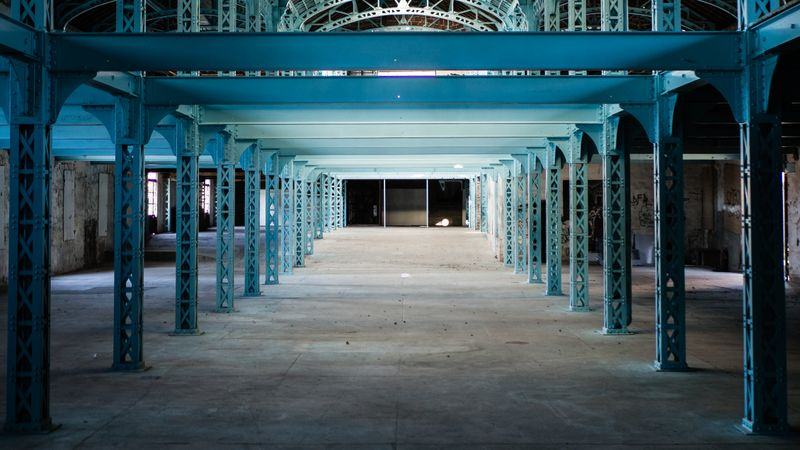
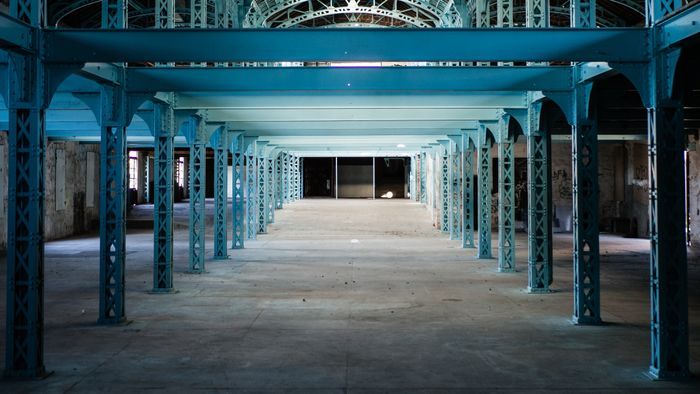
Fotos do Pexels restantes no próprio site (sem cookie de terceiros) e link do Assistente rastreável
Claude-Session: https://claude.ai/code/session_01NRJkSfCUbK5mzCxfSFgj6f

Changed region(s): [[0.42, 0.0, 0.63, 0.0609], [0.42, 0.3959, 0.45, 0.4264], [0.18, 0.3959, 0.21, 0.4264]]

diff --git a/index.html b/index.html
@@ -220,7 +220,7 @@
             <div class="linha-info"><h3>Epóxi</h3><p>Painéis elétricos, máquinas e prateleiras. Alta resistência química.</p><span class="linha-seta"><svg class="icone-svg" viewBox="0 0 24 24" aria-hidden="true" fill="none" stroke="currentColor" stroke-width="1.7" stroke-linecap="round" stroke-linejoin="round"><path d="M5 12h14M13 6l6 6-6 6"/></svg></span></div>
           </a>
           <a class="linha-card revelar" href="produtos?categoria=hibrida">
-            <img src="https://images.pexels.com/photos/11513526/pexels-photo-11513526.jpeg?auto=compress&amp;cs=tinysrgb&amp;w=700" alt="Híbrida" loading="lazy" data-foto-real data-reserva="assets/img/marca/pecas-linha.jpg">
+            <img src="assets/img/inspiracao/pexels-11513526.jpg" alt="Híbrida" loading="lazy" data-foto-real data-reserva="assets/img/marca/pecas-linha.jpg">
             <div class="linha-info"><h3>Híbrida</h3><p>Móveis de aço, armários e eletrodomésticos de uso interno.</p><span class="linha-seta"><svg class="icone-svg" viewBox="0 0 24 24" aria-hidden="true" fill="none" stroke="currentColor" stroke-width="1.7" stroke-linecap="round" stroke-linejoin="round"><path d="M5 12h14M13 6l6 6-6 6"/></svg></span></div>
           </a>
           <a class="linha-card revelar" href="produtos?categoria=texturizada">
@@ -272,7 +272,7 @@
             <div><h3>Automotivo e duas rodas</h3><p>Rodas, quadros e peças com brilho e proteção.</p></div>
           </a>
           <a class="segmento" href="produtos?categoria=especiais" draggable="false">
-            <img src="https://images.pexels.com/photos/11667731/pexels-photo-11667731.jpeg?auto=compress&amp;cs=tinysrgb&amp;w=700" alt="Estruturas metálicas" loading="lazy" draggable="false" data-foto-real data-reserva="assets/img/marca/estufa-cura.jpg">
+            <img src="assets/img/inspiracao/pexels-11667731.jpg" alt="Estruturas metálicas" loading="lazy" draggable="false" data-foto-real data-reserva="assets/img/marca/estufa-cura.jpg">
             <div><h3>Estruturas metálicas</h3><p>Sistemas anticorrosivos com primer rico em zinco.</p></div>
           </a>
           <a class="segmento" href="produtos?categoria=todas" draggable="false">
@@ -413,7 +413,7 @@
         </div>
         <div class="passos-cards">
           <article class="passo-card revelar">
-            <div class="passo-img"><img src="https://images.pexels.com/photos/29385994/pexels-photo-29385994.jpeg?auto=compress&amp;cs=tinysrgb&amp;w=700" alt="Preparação mecânica de peça metálica" loading="lazy" data-foto-real data-reserva="assets/img/marca/placas-acabamentos.jpg"></div>
+            <div class="passo-img"><img src="assets/img/inspiracao/pexels-29385994.jpg" alt="Preparação mecânica de peça metálica" loading="lazy" data-foto-real data-reserva="assets/img/marca/placas-acabamentos.jpg"></div>
             <div class="passo-txt"><span>01</span><h3>Preparação</h3><p>Jateamento, desengraxe e pré-tratamento deixam o metal limpo e pronto para a tinta aderir.</p></div>
           </article>
           <article class="passo-card revelar">
@@ -475,7 +475,7 @@
       </div>
       <div class="pilula-slider revelar" data-pilulas>
         <article class="pilula ativa">
-          <div class="pilula-foto"><img src="https://images.pexels.com/photos/227416/pexels-photo-227416.jpeg?auto=compress&amp;cs=tinysrgb&amp;w=1100" alt="Lago cercado por floresta" loading="lazy" data-foto-real data-reserva="assets/img/marca/potes-cores.jpg"></div>
+          <div class="pilula-foto"><img src="assets/img/inspiracao/pexels-227416.jpg" alt="Lago cercado por floresta" loading="lazy" data-foto-real data-reserva="assets/img/marca/potes-cores.jpg"></div>
           <div class="pilula-card"><h3>Sustentabilidade</h3><p>Tinta em pó não usa solventes e o pó que não adere à peça é recuperado. Menos emissões e menos desperdício na sua linha de pintura.</p><a href="aplicacao#vantagens" class="btn btn-contorno-escuro">Veja mais sobre o assunto</a></div>
         </article>
         <article class="pilula">
@@ -647,7 +647,7 @@
   <script src="assets/js/main.js?v=b1a36816"></script>
   <script src="assets/js/animacoes.js?v=d2c27710"></script>
   <script src="assets/js/secoes.js?v=7befe6f9"></script>
-  <script src="assets/js/assistente.js?v=7567cfc9"></script>
+  <script src="assets/js/assistente.js?v=bb8498c5"></script>
   <script src="assets/js/novidades.js?v=7d1cc1e2"></script>
   <script>
     document.addEventListener("DOMContentLoaded", function () {

diff --git a/aplicacao.html b/aplicacao.html
@@ -157,7 +157,7 @@
                 <li><strong>Enxágue e estufa de secagem</strong><span>Tira os resíduos químicos e seca a peça antes da pintura.</span></li>
               </ul>
             </div>
-            <figure class="etapa-foto"><img src="https://images.pexels.com/photos/29385994/pexels-photo-29385994.jpeg?auto=compress&amp;cs=tinysrgb&amp;w=900" alt="Preparação mecânica de peça metálica" loading="lazy" data-foto-real data-reserva="assets/img/marca/aplicacao-pistola.jpg"></figure>
+            <figure class="etapa-foto"><img src="assets/img/inspiracao/pexels-29385994.jpg" alt="Preparação mecânica de peça metálica" loading="lazy" data-foto-real data-reserva="assets/img/marca/aplicacao-pistola.jpg"></figure>
           </article>
 
           <article class="etapa revelar">
@@ -373,6 +373,6 @@
   <script src="assets/js/main.js?v=b1a36816"></script>
   <script src="assets/js/animacoes.js?v=d2c27710"></script>
   <script src="assets/js/secoes.js?v=7befe6f9"></script>
-  <script src="assets/js/assistente.js?v=7567cfc9"></script>
+  <script src="assets/js/assistente.js?v=bb8498c5"></script>
 </body>
 </html>

diff --git a/assets/js/assistente.js b/assets/js/assistente.js
@@ -162,7 +162,7 @@
           <button type="button" class="assist-voz" aria-label="Falar a mensagem" title="Falar" hidden>${ic("microfone")}</button>
           <button type="submit" aria-label="Enviar">${ic("seta")}</button>
         </form>
-        <a class="assist-whats" data-whats-assist target="_blank" rel="noopener">${CW().iconeWhats()} Falar com um vendedor no WhatsApp</a>
+        <a class="assist-whats" href="#" data-whats-assist target="_blank" rel="noopener">${CW().iconeWhats()} Falar com um vendedor no WhatsApp</a>
       </section>`);
 
     $(".assist-botao").addEventListener("click", () => alternar(!aberto));

diff --git a/cotacao.html b/cotacao.html
@@ -342,7 +342,7 @@
   <script src="assets/js/main.js?v=b1a36816"></script>
   <script src="assets/js/animacoes.js?v=d2c27710"></script>
   <script src="assets/js/secoes.js?v=7befe6f9"></script>
-  <script src="assets/js/assistente.js?v=7567cfc9"></script>
+  <script src="assets/js/assistente.js?v=bb8498c5"></script>
   <script src="assets/js/seletor.js?v=00ee7cd3"></script>
   <script src="assets/js/br.js?v=848f13ba"></script>
   <script src="assets/js/cotacao-animacao.js?v=c0f23e22"></script>

diff --git a/admin.html b/admin.html
@@ -723,7 +723,7 @@
   <script src="assets/js/main.js?v=b1a36816"></script>
   <script src="assets/js/animacoes.js?v=d2c27710"></script>
   <script src="assets/js/secoes.js?v=7befe6f9"></script>
-  <script src="assets/js/assistente.js?v=7567cfc9"></script>
+  <script src="assets/js/assistente.js?v=bb8498c5"></script>
   <script src="assets/js/br.js?v=848f13ba"></script>
   <script src="assets/js/seletor.js?v=00ee7cd3"></script>
   <script src="assets/js/admin.js?v=b308c0c9"></script>

diff --git a/produtos.html b/produtos.html
@@ -217,7 +217,7 @@
   <script src="assets/js/main.js?v=b1a36816"></script>
   <script src="assets/js/animacoes.js?v=d2c27710"></script>
   <script src="assets/js/secoes.js?v=7befe6f9"></script>
-  <script src="assets/js/assistente.js?v=7567cfc9"></script>
+  <script src="assets/js/assistente.js?v=bb8498c5"></script>
   <script>
     document.addEventListener("DOMContentLoaded", function () {
       var CW = window.ColorWeg, padrao = window.padraoClassificacao;

diff --git a/conta.html b/conta.html
@@ -441,7 +441,7 @@
   <script src="assets/js/main.js?v=b1a36816"></script>
   <script src="assets/js/animacoes.js?v=d2c27710"></script>
   <script src="assets/js/secoes.js?v=7befe6f9"></script>
-  <script src="assets/js/assistente.js?v=7567cfc9"></script>
+  <script src="assets/js/assistente.js?v=bb8498c5"></script>
   <script src="assets/js/br.js?v=848f13ba"></script>
   <script src="assets/js/conta.js?v=c339aa3d"></script>
 </body>

diff --git a/recursos.html b/recursos.html
@@ -340,7 +340,7 @@
   <script src="assets/js/main.js?v=b1a36816"></script>
   <script src="assets/js/animacoes.js?v=d2c27710"></script>
   <script src="assets/js/secoes.js?v=7befe6f9"></script>
-  <script src="assets/js/assistente.js?v=7567cfc9"></script>
+  <script src="assets/js/assistente.js?v=bb8498c5"></script>
   <script>
     document.addEventListener("DOMContentLoaded", function () {
       var CW = window.ColorWeg;

diff --git a/produto.html b/produto.html
@@ -189,7 +189,7 @@
   <script src="assets/js/main.js?v=b1a36816"></script>
   <script src="assets/js/animacoes.js?v=d2c27710"></script>
   <script src="assets/js/secoes.js?v=7befe6f9"></script>
-  <script src="assets/js/assistente.js?v=7567cfc9"></script>
+  <script src="assets/js/assistente.js?v=bb8498c5"></script>
   <script src="assets/js/produto-pagina.js?v=bdcbbcc6"></script>
 </body>
 </html>

diff --git a/galeria.html b/galeria.html
@@ -291,7 +291,7 @@
   <script src="assets/js/main.js?v=b1a36816"></script>
   <script src="assets/js/animacoes.js?v=d2c27710"></script>
   <script src="assets/js/secoes.js?v=7befe6f9"></script>
-  <script src="assets/js/assistente.js?v=7567cfc9"></script>
+  <script src="assets/js/assistente.js?v=bb8498c5"></script>
   <script src="assets/js/galeria.js?v=2e8c3dda"></script>
 </body>
 </html>

diff --git a/404.html b/404.html
@@ -190,6 +190,6 @@
   <script src="assets/js/main.js?v=b1a36816"></script>
   <script src="assets/js/animacoes.js?v=d2c27710"></script>
   <script src="assets/js/secoes.js?v=7befe6f9"></script>
-  <script src="assets/js/assistente.js?v=7567cfc9"></script>
+  <script src="assets/js/assistente.js?v=bb8498c5"></script>
 </body>
 </html>

diff --git a/privacidade.html b/privacidade.html
@@ -219,6 +219,6 @@
   <script src="assets/js/main.js?v=b1a36816"></script>
   <script src="assets/js/animacoes.js?v=d2c27710"></script>
   <script src="assets/js/secoes.js?v=7befe6f9"></script>
-  <script src="assets/js/assistente.js?v=7567cfc9"></script>
+  <script src="assets/js/assistente.js?v=bb8498c5"></script>
 </body>
 </html>
